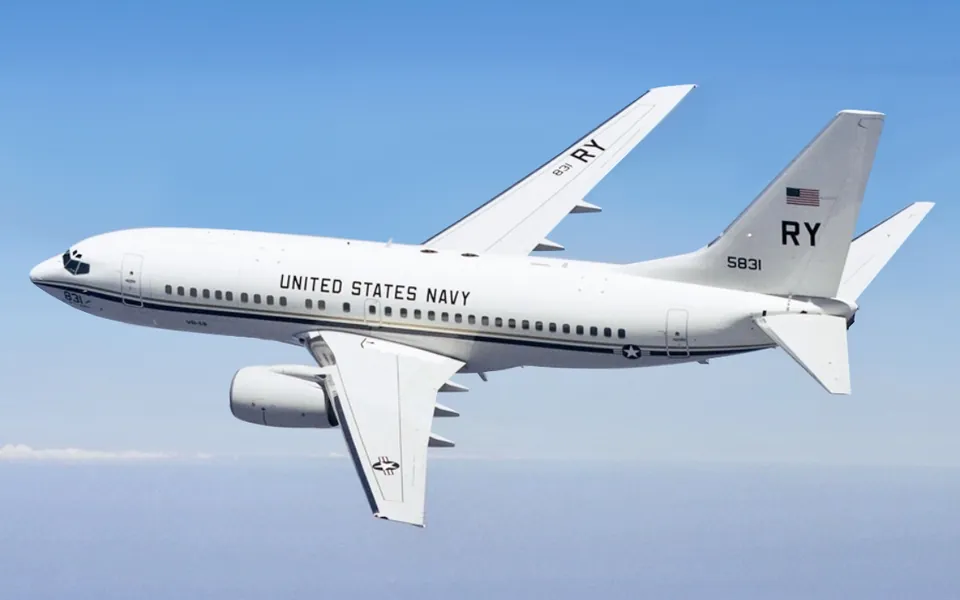
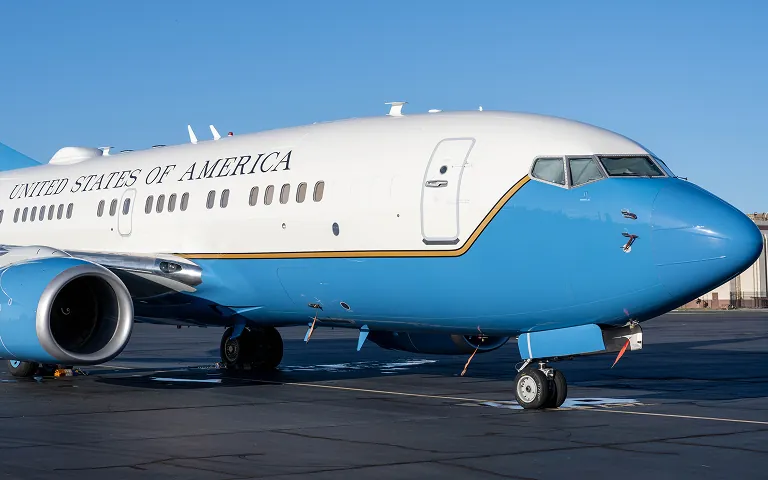
Storm Standard: sharp Space Force system photos, USAF C-40B photo, keep Space Force values
Claude-Session: https://claude.ai/code/session_01XmGzYuEyUvF4zZVEAX2pWA

diff --git a/documents/storm-standard/index.html b/documents/storm-standard/index.html
@@ -194,6 +194,9 @@ dialog.lb button{position:absolute;top:8px;right:8px;width:40px;height:40px;bord
 .d250-head-icon.ss-cover{width:40px;height:60px;border-radius:6px;overflow:hidden;background:#0b1020;padding:0}
 .d250-head-icon.ss-cover img{display:block;width:100%;height:100%;object-fit:cover}
 @media (max-width:480px){.d250-head-icon.ss-cover{width:36px;height:54px;border-radius:5px}}
+.svals{display:flex;flex-wrap:wrap;gap:10px}
+.svals .icard{align-items:center;gap:10px;padding:8px 16px 8px 8px;border-radius:14px;background:var(--d250-surface);border:1px solid var(--d250-line)}
+.svals b{font-size:15px}
 .photo{margin:0 0 16px}
 .photo img{display:block;width:100%;height:auto;border-radius:14px;box-shadow:var(--d250-shadow)}
 .hero .photo{margin:0}
@@ -351,7 +354,7 @@ const COCOMS = {
 const list = rows => `<div class="grid g2">${rows.map(r => `<div class="card cmd">${img("official/cocom-" + r[0].toLowerCase().replace("uspacom", "usindopacom") + ".webp", r[1] + " seal", "", 72, 72)}<div><span class="k">${esc(r[0])}</span><h3>${esc(r[1])}</h3><p>${esc(r[2])}</p></div></div>`).join("")}</div>`;
 
 // Sharp photos supplied by Captain Russell (Nov 2026) replace the PDF crops; they live in art/official/aircraft/ under the same file name.
-const INV_PHOTOS = new Set(["inv-t-6a-texan-ii.webp", "inv-t-1a-jayhawk.webp", "inv-t-38a-c-and-at-38b-talon.webp", "inv-a-10a-c-thunderbolt-ii.webp", "inv-b-1b-lancer.webp", "inv-b-2a-spirit.webp", "inv-b-52h-stratofortress.webp", "inv-c-5m-galaxy.webp", "inv-c-17a-globemaster-iii.webp", "inv-c-32.webp", "inv-c-37a-b-gulfstream-v.webp", "inv-c-40b-c-clipper.webp", "inv-c-130-hercules.webp", "inv-e-3b-c-g-sentry-awacs.webp", "inv-e-4b.webp", "inv-f-15a-b-c-d-eagle.webp", "inv-f-15e-strike-eagle.webp", "inv-f-16a-b-c-d-fighting-falcon.webp", "inv-f-22a-raptor.webp", "inv-f-35-lightning-ii.webp", "inv-kc-135r-t-stratotanker.webp", "inv-kc-46a-pegasus.webp", "inv-vc-25-air-force-one.webp", "inv-cv-22a-osprey.webp", "inv-hh-60g-pave-hawk.webp", "inv-uh-1n-huey.webp", "inv-mh-139a-grey-wolf.webp", "inv-u-2s-and-tr-1-dragon-lady.webp", "inv-mq-9-reaper.webp", "inv-rq-4a-global-hawk.webp"]);
+const INV_PHOTOS = new Set(["inv-t-6a-texan-ii.webp", "inv-t-1a-jayhawk.webp", "inv-t-38a-c-and-at-38b-talon.webp", "inv-a-10a-c-thunderbolt-ii.webp", "inv-b-1b-lancer.webp", "inv-b-2a-spirit.webp", "inv-b-52h-stratofortress.webp", "inv-c-5m-galaxy.webp", "inv-c-17a-globemaster-iii.webp", "inv-c-32.webp", "inv-c-37a-b-gulfstream-v.webp", "inv-c-40b-c-clipper.webp", "inv-c-130-hercules.webp", "inv-e-3b-c-g-sentry-awacs.webp", "inv-e-4b.webp", "inv-f-15a-b-c-d-eagle.webp", "inv-f-15e-strike-eagle.webp", "inv-f-16a-b-c-d-fighting-falcon.webp", "inv-f-22a-raptor.webp", "inv-f-35-lightning-ii.webp", "inv-kc-135r-t-stratotanker.webp", "inv-kc-46a-pegasus.webp", "inv-vc-25-air-force-one.webp", "inv-cv-22a-osprey.webp", "inv-hh-60g-pave-hawk.webp", "inv-uh-1n-huey.webp", "inv-mh-139a-grey-wolf.webp", "inv-u-2s-and-tr-1-dragon-lady.webp", "inv-mq-9-reaper.webp", "inv-rq-4a-global-hawk.webp", "inv-ultra-high-frequency-follow-on-ufo.webp", "inv-mobile-user-objective-system-muos.webp", "inv-defense-satellite-communications-system-.webp", "inv-wideband-global-satcom-wwgs.webp", "inv-military-strategic-and-tactical-relay-mi.webp", "inv-advanced-extremely-high-frequency-aehf.webp", "inv-global-positioning-system-gps.webp", "inv-defense-meteorological-satellite-program.webp", "inv-space-based-infrared-system-sbirs.webp", "inv-defense-support-program-dsp.webp", "inv-geosynchronous-space-situational-awarene.webp", "inv-space-based-space-surveillance-sbss.webp", "inv-upgraded-early-warning-uewr.webp", "inv-perimeter-acquisition-radar-attack-parcs.webp", "inv-pave-phased-array-warning-system-paws.webp", "inv-cobra-dane.webp", "inv-ground-based-electro-optical-deep-space-.webp", "inv-space-fence.webp", "inv-air-force-satellite-control-network-afsc.webp", "inv-national-security-space-launch-nssl.webp"]);
 function invGrid(kind){
   const items = ART.inventory.filter(x => x.kind === kind);
   const row = (k, v) => v ? `<dt>${k}</dt><dd>${esc(v)}</dd>` : "";
@@ -402,6 +405,8 @@ const CH = [
       ${icard("shield", "Integrity First", "<p>Doing the right thing, all the time, whether everyone is watching or no one is watching.</p><div class=\"chips\"><span>Honesty</span><span>Courage</span><span>Accountability</span></div>", "Air Force core value")}
       ${icard("flag", "Service Before Self", "<p>Professional duties take precedence over personal desires. We do not work in the Air Force and Space Force; we serve.</p><div class=\"chips\"><span>Duty</span><span>Loyalty</span><span>Respect</span></div>", "Air Force core value")}
       ${icard("star", "Excellence In All We Do", "<p>Not perfection, but a passion to continuously advance our craft and increase our knowledge.</p><div class=\"chips\"><span>Mission</span><span>Discipline</span><span>Teamwork</span></div>", "Air Force core value")}</div>
+      <h3 style="margin:22px 0 10px">Space Force values</h3>
+      <div class="svals">${[["character", "Character"], ["link", "Connection"], ["hand", "Commitment"], ["flame", "Courage"]].map(v => `<span class="icard"><span class="ci">${svgI(v[0])}</span><b>${v[1]}</b></span>`).join("")}</div>
       <h3 style="margin:22px 0 10px">A leader of character</h3>
       <div class="grid g3">${card("Lives honorably", "<p>Consistently practices the virtues in our core values.</p>")}${card("Lifts others", "<p>Helps others become their best possible selves.</p>")}${card("Elevates performance", "<p>Toward a common and noble purpose.</p>")}</div>`},
     {id: "chain", title: "Chain of command", page: 16, html: () => `<p class="lead">Each level is responsible for all lower levels and accountable to all higher levels. Resolve problems at the lowest possible level.</p>

diff --git a/CLAUDE.md b/CLAUDE.md
@@ -31,7 +31,7 @@
 | `shared/cadet-groups.js` | Preset roster groups (AS 100's, AS 200's, AS 250's, AS 500's, AS 300's, AS 400's, Graybeards) and `D250Cadets` ("last, first" -> photo key, class). GENERATED from `PEOPLE` in `org-chart/index.html` by `node tools/build-cadet-groups.mjs`; rerun it after roster changes. |
 | `shared/doc-refs.js` | `D250Refs`: the one way a tool cites a regulation, form or publication (Nov 2026, Captain Russell: Documents and Policy is the single source of truth). Load `../documents/library.js` then `../shared/doc-refs.js`, then `D250Refs.mount(el, {from:"<tool folder>", items:[{id, note, page}]})` renders hub-style reference cards. Hosted PDFs open in `documents/view/?id=<id>&from=<tool>&page=<n>`, whose back button returns to the exact spot in the tool (saved on click in sessionStorage `d250-docs-back-<tool>`); e-Publishing items open in a new tab. `D250Refs.href()` / `D250Refs.view()` give inline links (the Org Chart's drawer citations use them, OPLAN citations ask for the password). Used by the PFRA Calculator, Ribbon Rack and Org Chart; add new tools to `FROM` in `documents/view/index.html`. Never copy a regulation PDF into a tool folder; add it to `library.js`. |
 | `shared/class-roster.js` | `D250Class.load()/save()`: one saved class roster (`d250-class-roster-v1`) and class name (`d250-class-name-v1`, `D250Class.name()`) shared by the instructor tools. Practicum Adventure uses the class name as its course unless its Game settings set one. |
-| `documents/` | Documents and Policy (cadet tool, Nov 2026): one-stop list of every regulation, notice and form cited by the Storm HQ tools, The Storm Standard, the OPLAN and the Policy Packet (`D250_DOC_SECTIONS` and `D250_DOCS` in `documents/library.js`, shared by the main page and the viewer; every document is a hub-style one-click card. Categories: Detachment plans, Weekly OPORDs (both locked), AFROTC, Fitness (PFRA Calculator, AF Forms 4446/4446A, PFRA scoring charts, HAMR tally, DAFMAN 36-2905 and its AFROTC Sup) and External links (e-Publishing pubs and forms, new tab), per Captain Russell Nov 2026. Each card's icon matches its subject (`icon` key into `D250_DOC_ICONS` in `library.js`, e.g. uniform for dress and appearance, medal for the award nomination; Captain Russell, Nov 2026), and links to Storm HQ tools (`tool:true`, e.g. the PFRA Calculator) get a gold card with a "Storm HQ tool" pill so they stand apart from documents. Every internal PDF (`src`) opens in `documents/view/?id=<id>` with the back button to its category; `dl` sets a different download file (the fillable 4446/4446A; the viewer shows the `-flat` copy). AFROTCI 36-2011 V1 and V2 are hosted in `documents/references/`, V3, the AFROTC supplements and the fitness files are shared from `pfra/references/` and `ribbon-rack/references/`. NOTACCs and the law section were removed at Captain Russell's request, Nov 2026). The main page shows only "Read the Standard" for The Storm Standard, has no search bar, and each category collapses (state in `d250-docs-sections-v1`). One "Enter password to unlock" box above the plans unlocks every protected card with a staggered animation; clicking a locked card makes the box glow. The Storm Standard online view (`documents/storm-standard/index.html`, hand written, Nov 2026) is a highlights view, not the full text (Captain Russell: show the important sections, mostly with visuals): chapters in the side nav, and ONE topic on screen at a time with dots, previous/next and arrow keys (`#<chapter>/<topic>` links, `CH` array in the page; old `#chapter-N` and `#p-N` links still resolve). Each topic links to its page in the PDF. Graphics (covers, patches, cadet and military rank charts, AFROTC uniforms, the Prop and Wings monument, the aircraft and space inventory, AFSC badges) are pulled from the PDF by `python3 tools/storm-standard-art.py documents/storm-standard/The_Storm_Standard.pdf documents/storm-standard/art` into `art/*.webp` plus `art/data.js` (inventory, commands, badges). The PDF's own seals and badges are too low resolution, so official artwork lives in `art/official/` (never written by the script): service and department seals, the President, SecWar, SecAF, CSAF and CSO seals plus rank insignia for the chain of command, combatant command seals, MAJCOM shields, Space Force field command emblems and the clean Prop and Wings (mostly supplied by Captain Russell, Nov 2026), and the CTA, Arnold Air Society and Pershing Rifles badges cut from DAFI 36-2903 AFROTC Sup Figure 9.1. The Prop and Wings plaque was removed at his request. Also removed at his request (Nov 2026): the date and name heavy topics (Pioneers from the Storm, History of AFROTC, Air and Space Force milestones) and the blurry full insignia chart; MAJCOM cards use the one-line missions in `MAJCOM_SHORT`, not the PDF's full statements. Edition and authority sits on the closing slide, after the back cover; the header icon is the cover art (`art/official/cover-icon.webp`). Topics without PDF art use Captain Russell's photos and symbols in `art/official/` (Armory, open ranks, salute, Hap Arnold wings, Air Force Symbol, combatant command map) or drawn icons and diagrams in the page (`ICON`/`icard`, `DIAG` customs diagrams, the order-of-precedence pyramid). Sharp aircraft photos supplied by Captain Russell (Nov 2026) are in `art/official/aircraft/` under the PDF crop file names and listed in `INV_PHOTOS`; the Space Force systems still use the PDF crops. Keep the page to what the PDF says (MOOSEMUSS and the Space Force values were removed for that reason). Page numbers in `CH` and the script are PDF pages (cover = 1; printed page = PDF page minus 1); check them when a new edition comes out. `documents/storm-standard/The_Storm_Standard.pdf` is the full First Edition (Sep 2026). `documents/restricted/` holds the Fall 2026 OPLAN, Policy Packet, Cadre Additional Duties Roster and weekly OPORDs ENCRYPTED (`*.bin` + `vault.json`); each card opens `documents/view/?id=<id>`, which asks for the password once per tab, decrypts in the browser and renders the pages with the vendored PDF.js 3.11.174 (`documents/vendor/pdfjs/`), with a back button, previous/next and download (default set by Captain Russell, Nov 2026; never write it in the repo). |
+| `documents/` | Documents and Policy (cadet tool, Nov 2026): one-stop list of every regulation, notice and form cited by the Storm HQ tools, The Storm Standard, the OPLAN and the Policy Packet (`D250_DOC_SECTIONS` and `D250_DOCS` in `documents/library.js`, shared by the main page and the viewer; every document is a hub-style one-click card. Categories: Detachment plans, Weekly OPORDs (both locked), AFROTC, Fitness (PFRA Calculator, AF Forms 4446/4446A, PFRA scoring charts, HAMR tally, DAFMAN 36-2905 and its AFROTC Sup) and External links (e-Publishing pubs and forms, new tab), per Captain Russell Nov 2026. Each card's icon matches its subject (`icon` key into `D250_DOC_ICONS` in `library.js`, e.g. uniform for dress and appearance, medal for the award nomination; Captain Russell, Nov 2026), and links to Storm HQ tools (`tool:true`, e.g. the PFRA Calculator) get a gold card with a "Storm HQ tool" pill so they stand apart from documents. Every internal PDF (`src`) opens in `documents/view/?id=<id>` with the back button to its category; `dl` sets a different download file (the fillable 4446/4446A; the viewer shows the `-flat` copy). AFROTCI 36-2011 V1 and V2 are hosted in `documents/references/`, V3, the AFROTC supplements and the fitness files are shared from `pfra/references/` and `ribbon-rack/references/`. NOTACCs and the law section were removed at Captain Russell's request, Nov 2026). The main page shows only "Read the Standard" for The Storm Standard, has no search bar, and each category collapses (state in `d250-docs-sections-v1`). One "Enter password to unlock" box above the plans unlocks every protected card with a staggered animation; clicking a locked card makes the box glow. The Storm Standard online view (`documents/storm-standard/index.html`, hand written, Nov 2026) is a highlights view, not the full text (Captain Russell: show the important sections, mostly with visuals): chapters in the side nav, and ONE topic on screen at a time with dots, previous/next and arrow keys (`#<chapter>/<topic>` links, `CH` array in the page; old `#chapter-N` and `#p-N` links still resolve). Each topic links to its page in the PDF. Graphics (covers, patches, cadet and military rank charts, AFROTC uniforms, the Prop and Wings monument, the aircraft and space inventory, AFSC badges) are pulled from the PDF by `python3 tools/storm-standard-art.py documents/storm-standard/The_Storm_Standard.pdf documents/storm-standard/art` into `art/*.webp` plus `art/data.js` (inventory, commands, badges). The PDF's own seals and badges are too low resolution, so official artwork lives in `art/official/` (never written by the script): service and department seals, the President, SecWar, SecAF, CSAF and CSO seals plus rank insignia for the chain of command, combatant command seals, MAJCOM shields, Space Force field command emblems and the clean Prop and Wings (mostly supplied by Captain Russell, Nov 2026), and the CTA, Arnold Air Society and Pershing Rifles badges cut from DAFI 36-2903 AFROTC Sup Figure 9.1. The Prop and Wings plaque was removed at his request. Also removed at his request (Nov 2026): the date and name heavy topics (Pioneers from the Storm, History of AFROTC, Air and Space Force milestones) and the blurry full insignia chart; MAJCOM cards use the one-line missions in `MAJCOM_SHORT`, not the PDF's full statements. Edition and authority sits on the closing slide, after the back cover; the header icon is the cover art (`art/official/cover-icon.webp`). Topics without PDF art use Captain Russell's photos and symbols in `art/official/` (Armory, open ranks, salute, Hap Arnold wings, Air Force Symbol, combatant command map) or drawn icons and diagrams in the page (`ICON`/`icard`, `DIAG` customs diagrams, the order-of-precedence pyramid). Sharp aircraft photos supplied by Captain Russell (Nov 2026) are in `art/official/aircraft/` under the PDF crop file names and listed in `INV_PHOTOS`, along with the Space Force systems (C-40 is a USAF C-40B). Keep the page to what the PDF says (MOOSEMUSS was removed for that reason; the Space Force values row stays at his request). Page numbers in `CH` and the script are PDF pages (cover = 1; printed page = PDF page minus 1); check them when a new edition comes out. `documents/storm-standard/The_Storm_Standard.pdf` is the full First Edition (Sep 2026). `documents/restricted/` holds the Fall 2026 OPLAN, Policy Packet, Cadre Additional Duties Roster and weekly OPORDs ENCRYPTED (`*.bin` + `vault.json`); each card opens `documents/view/?id=<id>`, which asks for the password once per tab, decrypts in the browser and renders the pages with the vendored PDF.js 3.11.174 (`documents/vendor/pdfjs/`), with a back button, previous/next and download (default set by Captain Russell, Nov 2026; never write it in the repo). |
 | `tools/encrypt-files.mjs` | Encrypts the restricted PDFs: keep the plain PDFs and a `list.json` OUTSIDE the repo, then `node tools/encrypt-files.mjs <password> <list.json> documents/restricted`. Rebuilds every file (new salt each run), so to add an OPORD or change the password rerun the whole list. `documents/restricted/.gitignore` blocks `*.pdf`. Anyone with the password can download and repost the decrypted files. |
 | `tools/encrypt.mjs`, `tools/locked-template.html` | Encrypt a page behind a password (used by Flight Staff Evaluation). |
 | `README.md` | Short how-to. |
